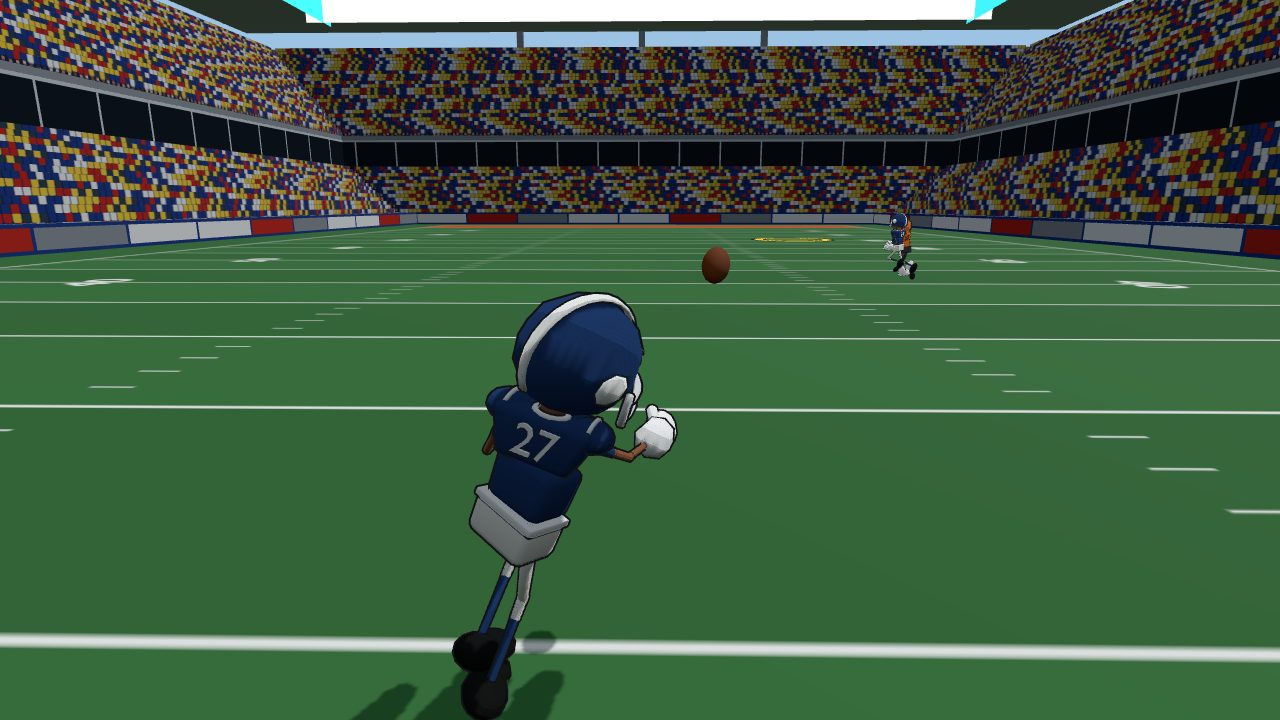
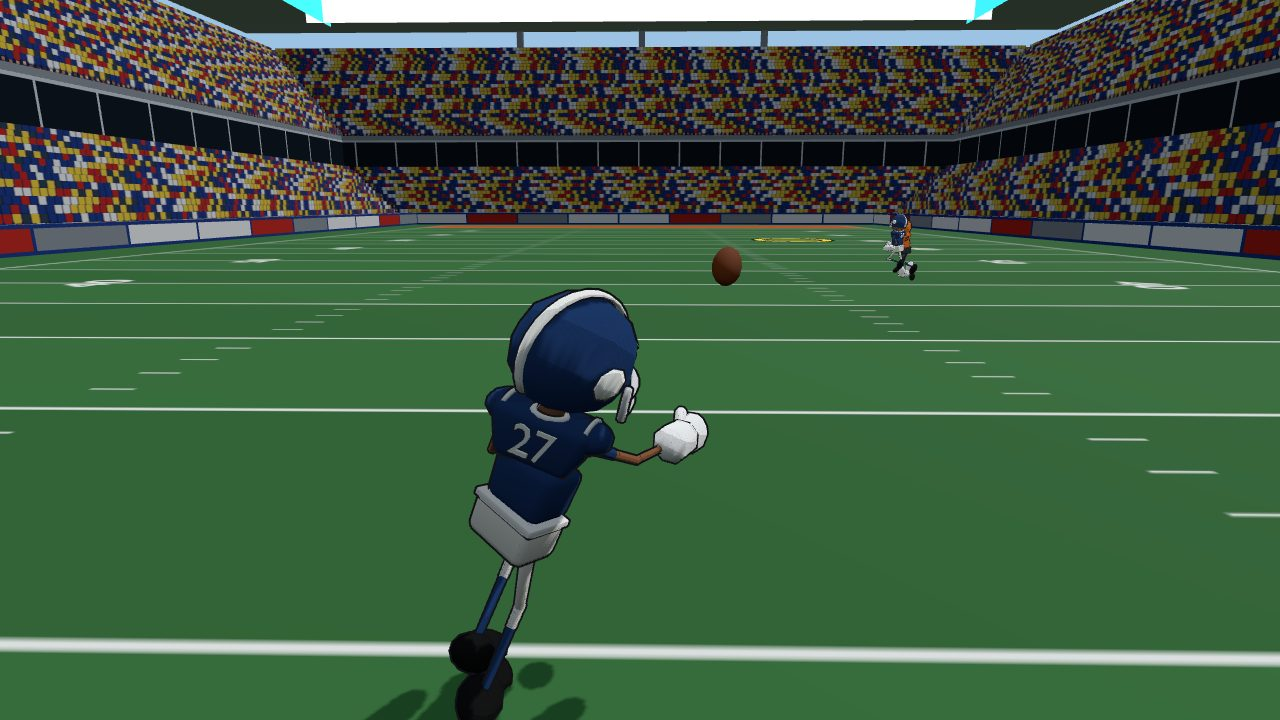
Passing: a fuller cocking phase; bot receivers keep pace; tuned reads
The arm now reaches the cocked pose (ball by the ear) before the whip, and
the release comes at the whip's peak hand speed. Bot receivers do not ease up
while the ball is still well off; the quarterback leads to the receivers'
real top speed. Go route, 12 seeded reps: off coverage 8 complete, press 2
(and 2 interceptions).

diff --git a/src/sim/brains/passing.ts b/src/sim/brains/passing.ts
@@ -43,6 +43,8 @@ const BREAK_V = 4.5, BRAKE = 5;
 const IN_FRONT = 0.55, OVER_SHOULDER = 0.35;
 /** Running to a ball in the air, up to this much faster (m/s) than the flight needs while 5 m or more from the spot. */
 const EARLY = 1.5;
+/** ... and while the ball is more than this far off (s) and the spot ahead of him, at least the pace he is running. */
+const HOLD_PACE = 0.6;
 /** A seen acceleration is filtered over this long (s). */
 const ACC_TAU = 0.15;
 /** Plant and cut (as the carrier and tackler do) when the wanted way is PLANT_ANGLE rad off a run faster than
@@ -111,8 +113,10 @@ function playBall(p: Perception, me: AthleteView, run: Runner, chase: TacklerBra
   // beside its line on the side he is already on, so it comes over his shoulder rather than down onto his helmet
   const side = (me.com[0] - s.at[0]) * fz - (me.com[2] - s.at[2]) * fx > 0 ? OVER_SHOULDER : -OVER_SHOULDER;
   const dx = s.at[0] - ox * IN_FRONT + fz * side - me.com[0], dz = s.at[2] - oz * IN_FRONT - fx * side - me.com[2], t = Math.max(s.t, 0.15);
-  // a little faster than the flight needs while far from it, to be under it early rather than late
-  const d = Math.hypot(dx, dz) || 1e-6, v = Math.min(FULL, d / t + EARLY * clamp(d / 5, 0, 1));
+  // a little faster than the flight needs while far from it, to be under it early rather than late; a ball still well
+  // off ahead of him is no reason to ease up yet (a defender on his heels gains on him if he does)
+  const d = Math.hypot(dx, dz) || 1e-6, ahead = (dx * ox + dz * oz) / d > 0.7 && s.t > HOLD_PACE;
+  const v = Math.min(FULL, Math.max(d / t + EARLY * clamp(d / 5, 0, 1), ahead ? sp : 0));
   run.go(p, me, dx / d * v, dz / d * v, dt, c);
   c.gait = 'sprint';
   const near = Math.hypot(b.pos[0] - chest[0], b.pos[1] - chest[1], b.pos[2] - chest[2]);
@@ -274,7 +278,7 @@ export class CoverageBrain implements Brain {
  *  to ROLL m toward his receiver's side. All assumptions, tuned so a bot quarterback completes about what the coverage
  *  allows. */
 const DROP = 0.6, READ = 0.7, OPEN = 0.35, CB_V = 9, CB_ACC = 6, CB_REACT = 0.3, CB_REACH = 1, FAST = 4, SET = 1, BROKE = 0.5, SETTLE = 2.2, LATE = 2.8;
-const SCRAMBLE = 1.8, ROLL = 4, AWAY = 0.6, TOP = 9.5, SHIELD = 0.8, SPOT = 3;
+const SCRAMBLE = 1.8, ROLL = 4, AWAY = 0.6, TOP = 10.3, SHIELD = 0.8, SPOT = 3;
 
 /** Time (s) to cover s m from v0 m/s (toward it) at acceleration a up to top speed V. */
 export function reachTime(s: number, v0: number, a: number, V: number): number {

diff --git a/tests/passing.test.ts b/tests/passing.test.ts
@@ -182,9 +182,9 @@ describe('QB 1-on-1 bots', () => {
   }
 
   it('a go route is completed in most reps against off coverage, fewer against press', async () => {
-    const off = await tally({ route: 'go', coverage: 'off' }, 8), press = await tally({ route: 'go', coverage: 'press' }, 8);
-    console.log(`go route, 8 reps: off ${JSON.stringify(off)}, press ${JSON.stringify(press)}`);
-    expect(off.complete ?? 0).toBeGreaterThanOrEqual(5);
+    const off = await tally({ route: 'go', coverage: 'off' }, 12), press = await tally({ route: 'go', coverage: 'press' }, 12);
+    console.log(`go route, 12 reps: off ${JSON.stringify(off)}, press ${JSON.stringify(press)}`);
+    expect(off.complete ?? 0).toBeGreaterThanOrEqual(7);
     expect(press.complete ?? 0).toBeLessThan(off.complete ?? 0);
   }, 240_000);
 });

diff --git a/src/sim/throw.ts b/src/sim/throw.ts
@@ -10,7 +10,7 @@ const G = 9.81;
  *  through over; how far ahead of the hand's centre the ball's centre leaves (m: its half length, a hand's and a
  *  margin); and the accuracy model (1σ miss at the target, m, all assumptions): per metre of throw, and the factors
  *  per m/s of the passer's own speed, at full knock, with a defender within `pressR` m, and at full loft. */
-export const THROW = { vmax: 27, spin: 63, cock: 0.25, release: 0.4, end: 0.65, clear: 0.3,
+export const THROW = { vmax: 27, spin: 63, cock: 0.28, release: 0.4, end: 0.65, clear: 0.3,
   perM: 0.012, run: 0.12, knock: 1.5, pressure: 1, pressR: 1.5, loft: 0.5 };
 
 /** Launch velocity from `from` that reaches `at` (world, m) and the flight time (s). Loft 0: the fastest throw the

diff --git a/src/sim/anim/procedural.ts b/src/sim/anim/procedural.ts
@@ -131,7 +131,7 @@ const PASS = {
   offCock: [1.3, 0.15, 0, 0.4, 0] as ArmQ, offRelease: [0.5, 0.2, 0.3, 1.6, 0] as ArmQ,
   turn: [-0.7, 0.1, 0.25], twist: [-0.45, 0.35, 0.45],
   /** The pose runs this far (s) ahead of THROW's times: the arm's tracking lag, so the hand is through at the release. */
-  lead: 0.1,
+  lead: 0.09,
 };
 
 export class ProceduralAnimator implements Animator {

diff --git a/docs/realism-sources.md b/docs/realism-sources.md
@@ -224,7 +224,7 @@ yet through the fact-checking pass):
 |---|---|---|
 | Fastest release speed | 27 m/s | NFL Combine radar readings of quarterback throws top out near 60 mph (~27 m/s); typical college and pro passes 18–24 m/s (Fleisig et al. 1996, J Appl Biomech 12:207: ball speed at release ~20 m/s in high school and college passers; as recalled, not re-verified) |
 | Spiral spin | 63 rad/s (~600 rpm) | Rae 2004, "Flight dynamics of an American football", Am J Phys: a well thrown spiral spins ~600 rpm (as recalled, not re-verified) |
-| Release time | the ball leaves 0.4 s after the motion starts (cocked at 0.25, through by 0.65) | quick NFL releases are stopwatch-timed at ~0.3–0.45 s from the start of the motion (scouting figures, assumption); shapes of an overhand pass from Rash & Shapiro 1995, J Appl Biomech 11:443 |
+| Release time | the ball leaves 0.4 s after the motion starts (cocked at 0.28, through by 0.65) | quick NFL releases are stopwatch-timed at ~0.3–0.45 s from the start of the motion (scouting figures, assumption); shapes of an overhand pass from Rash & Shapiro 1995, J Appl Biomech 11:443 |
 | Flight | vacuum trajectory (the scene has no drag) | as for kicks; a real 40 yd pass loses ~10–15% of its speed to drag (assumption), so long throws here fly a little flatter and further for the same release |
 | Accuracy | 1σ miss 0.012 m per m of throw, ×(1 + 0.12 per m/s of the passer's own speed) ×(1 + 1.5 knock) ×2 with a defender within 1.5 m ×(1 + 0.5 loft) | game-design assumption: ~0.2 m at 15 m standing, ~0.5–1 m on a deep ball or on the run |
 | Receiver's break | a 90° cut taken at ≤ 4.5 m/s after braking at 5 m/s² | assumption: a 90° cut at full sprint needs more sideways force than cleats on turf give (Shorten 2003's traction requirement, S5 above); receivers throttle down two or three steps before an out or an in |

diff --git a/docs/passing.md b/docs/passing.md
@@ -64,7 +64,7 @@ The interfaces above, exactly, plus:
   The bot receiver and corner look at a ball in the air (the catch rule's gaze factor reads the head).
 - `leadPoint(from, target, loft, delay = THROW.release)`: the throwing motion's time before release is in the lead.
   `throwError(dist, speed, knock, pressured, loft)` is the 1σ miss; `THROW` holds the arm's limits and the motion's
-  times (cock 0.25 s, release 0.4 s, end 0.65 s): a scheme's aim preview can use them.
+  times (cock 0.28 s, release 0.4 s, end 0.65 s): a scheme's aim preview can use them.
 - `PassRecord` (`Play.lastPass`, also `World.lastPass`): `{ athlete, time, at, to, loft, speed, error }`, `to` = where the
   error sent it. `Play.pass: 'none' | 'air' | 'complete' | 'intercepted' | 'incomplete'`, `Play.passer`, and
   `Play.passOk(i)` (whether a pass from athlete i would be allowed now: an aim aid can grey out).
